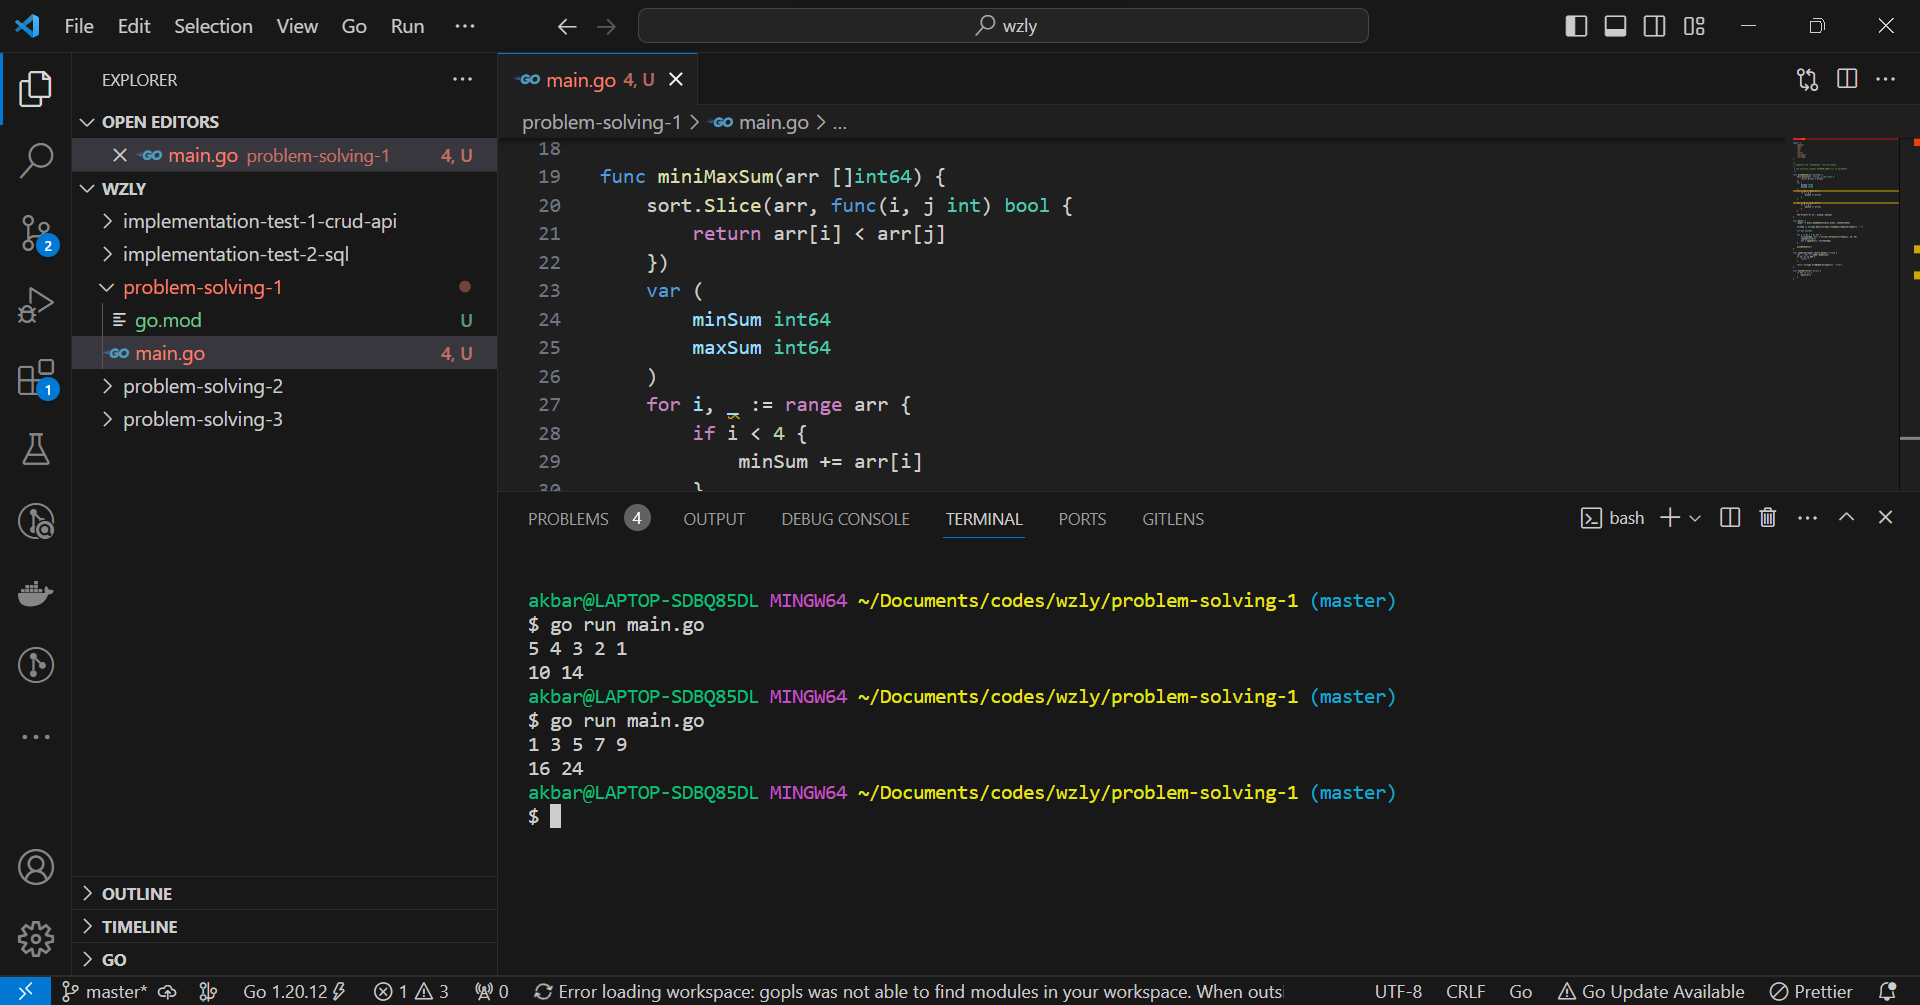
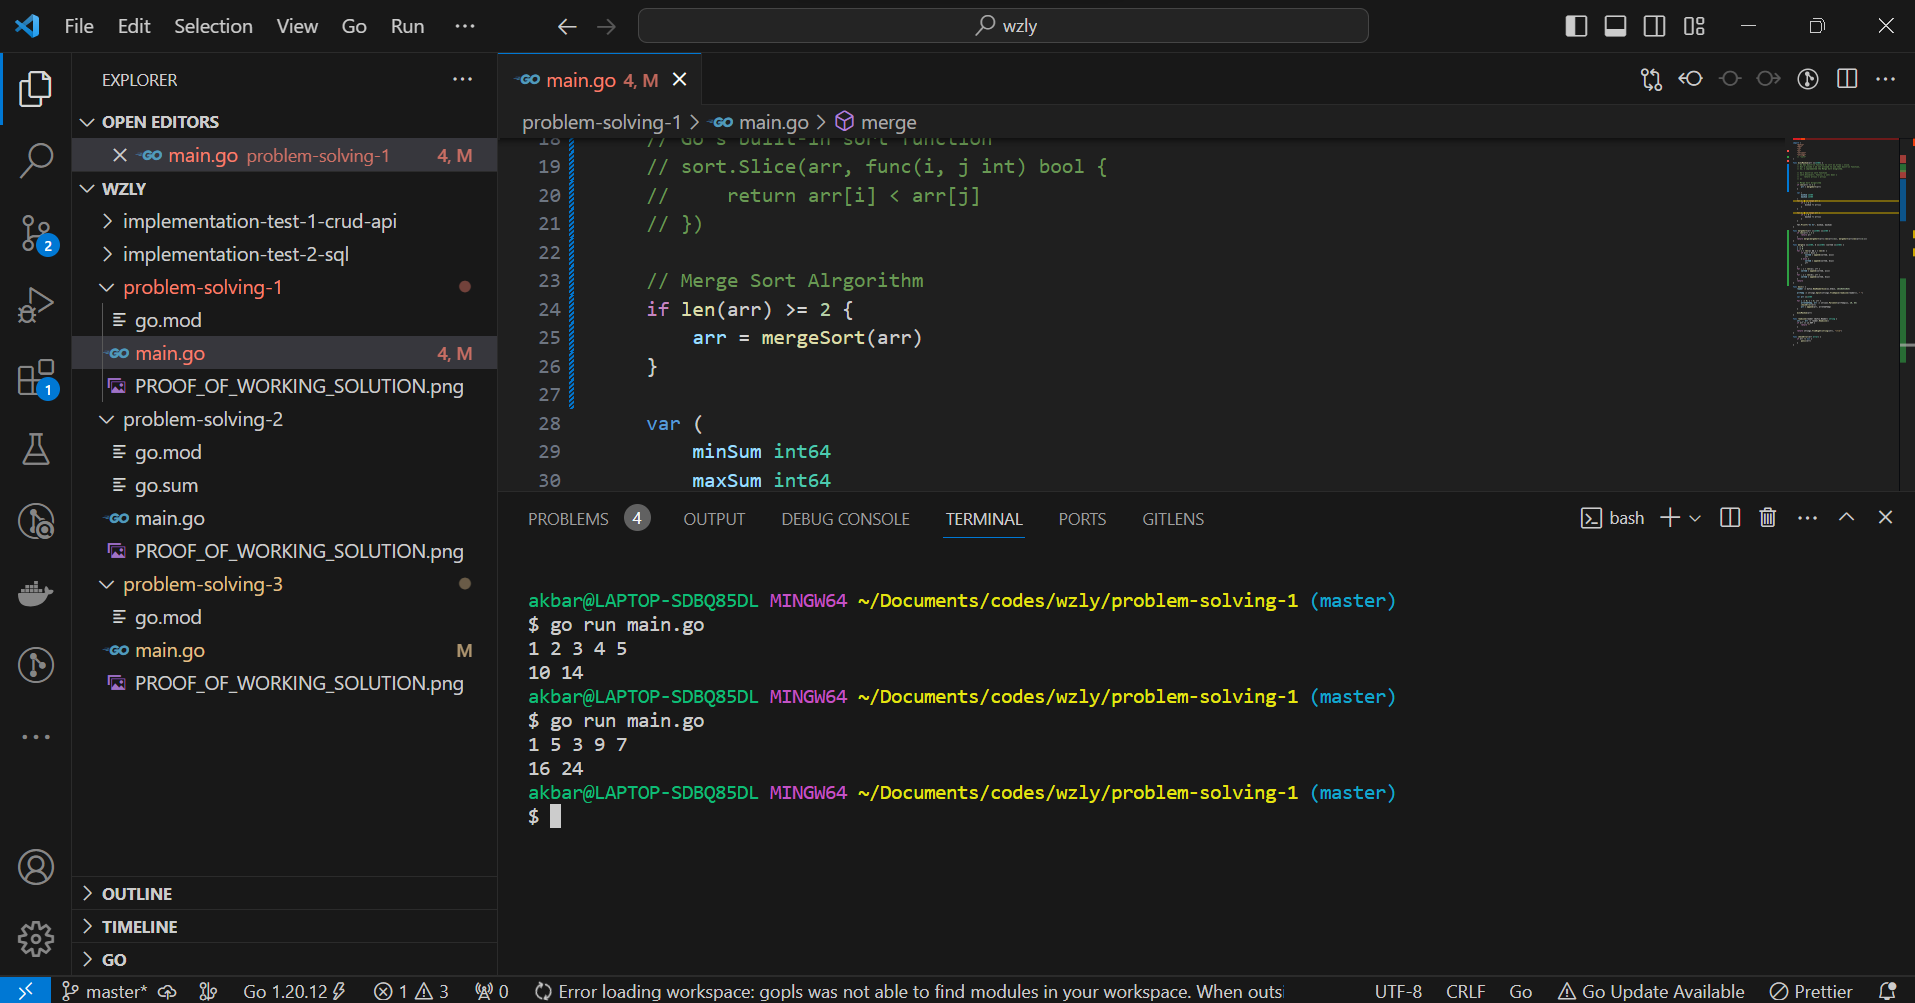
[Done] Problem Solving 1: use merge sort algorithm

diff --git a/problem-solving-1/main.go b/problem-solving-1/main.go
@@ -5,21 +5,26 @@ import (
 	"fmt"
 	"io"
 	"os"
-	"sort"
 	"strconv"
 	"strings"
+	// "sort"
 )
 
-/*
- * Complete the 'miniMaxSum' function below.
- *
- * The function accepts INTEGER_ARRAY arr as parameter.
- */
-
 func miniMaxSum(arr []int64) {
-	sort.Slice(arr, func(i, j int) bool {
-		return arr[i] < arr[j]
-	})
+	// Go has built-in function to sort an array / slice.
+	// But I assume I am not allowed to use that built-in function,
+	// So, I implemented the Merge Sort Alogrithm.
+
+	// Go's built-in sort function
+	// sort.Slice(arr, func(i, j int) bool {
+	//     return arr[i] < arr[j]
+	// })
+
+	// Merge Sort Alrgorithm
+	if len(arr) >= 2 {
+		arr = mergeSort(arr)
+	}
+
 	var (
 		minSum int64
 		maxSum int64
@@ -37,6 +42,34 @@ func miniMaxSum(arr []int64) {
 	}
 
 	fmt.Printf("%v %v", minSum, maxSum)
+}
+
+func mergeSort(arr []int64) []int64 {
+	if len(arr) < 2 {
+		return arr
+	}
+	return merge(mergeSort(arr[:len(arr)/2]), mergeSort(arr[len(arr)/2:]))
+}
+
+func merge(a []int64, b []int64) (sorted []int64) {
+	i := 0
+	j := 0
+	for i < len(a) && j < len(b) {
+		if a[i] < b[j] {
+			sorted = append(sorted, a[i])
+			i++
+		} else {
+			sorted = append(sorted, b[j])
+			j++
+		}
+	}
+	for ; i < len(a); i++ {
+		sorted = append(sorted, a[i])
+	}
+	for ; j < len(b); j++ {
+		sorted = append(sorted, b[j])
+	}
+	return
 }
 
 func main() {

diff --git a/problem-solving-3/main.go b/problem-solving-3/main.go
@@ -9,13 +9,6 @@ import (
 	"time"
 )
 
-/*
- * Complete the 'timeConversion' function below.
- *
- * The function is expected to return a STRING.
- * The function accepts STRING s as parameter.
- */
-
 func timeConversion(s string) string {
 	convTime, _ := time.Parse("03:04:05PM", s)
 	return convTime.Format("15:04:05")
